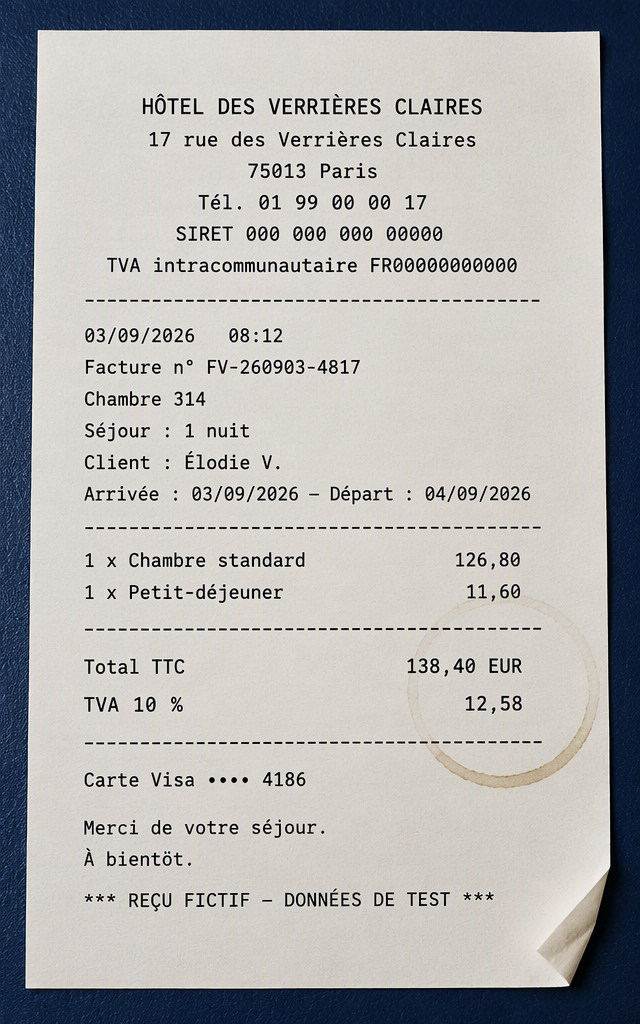
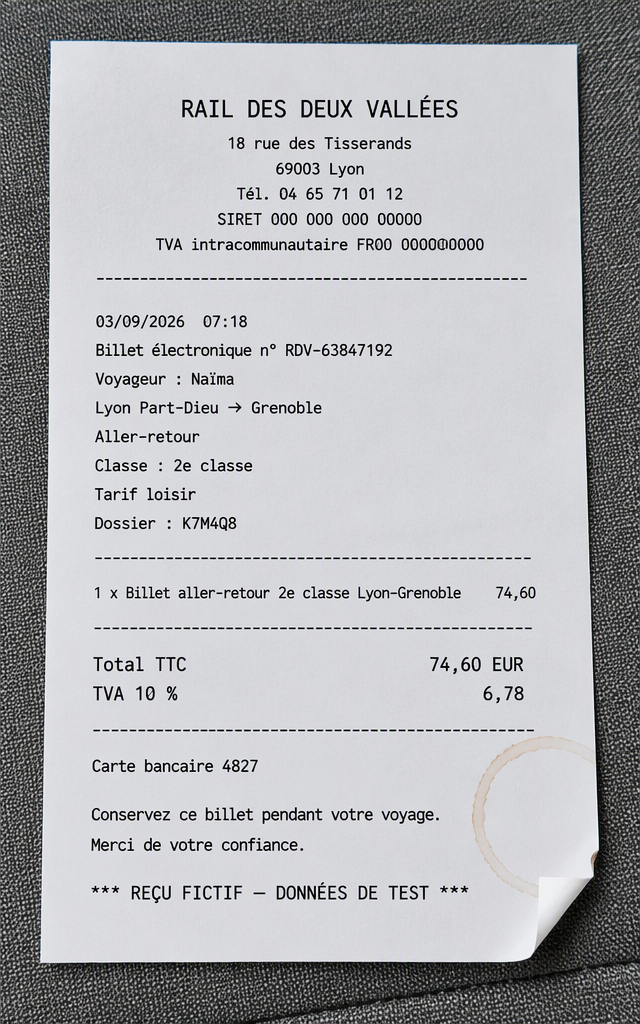
gen_expense_data links its report's receipt photos by an address a browser opens, plans each amount as the receipt's total with tax whether or not the prices include it, and prints a generic card label.

diff --git a/methods/gen_expense_data/README.md b/methods/gen_expense_data/README.md
@@ -29,7 +29,7 @@ Read a brief giving a company's expense policy and the test batch it wants, and 
 
 ## What you get
 
-Run on production on 27 September 2026, from the package's files, in 1 minute 10 seconds. This is what it returned:
+Run on production on 27 September 2026, from the package's files, in 1 minute 4 seconds. This is what it returned:
 
 ### Report 1
 
@@ -37,9 +37,9 @@ Run on production on 27 September 2026, from the package's files, in 1 minute 10
 
 | Field | Value |
 |---|---|
-| `employee_id` | EMP-26041 |
-| `full_name` | Élodie Vasseur |
-| `email` | elodie.vasseur@example.com |
+| `employee_id` | EC-2026-0147 |
+| `full_name` | Naïma Belkacem |
+| `email` | naima.belkacem@example.com |
 | `department` | Business Development |
 | `job_title` | Senior Sales Engineer |
 
@@ -47,25 +47,25 @@ Run on production on 27 September 2026, from the package's files, in 1 minute 10
 
 | `claim_id` | `expense_date` | `merchant` | `category` | `amount` | `business_purpose` | `receipt` | `expected_verdict` |
 |---|---|---|---|---|---|---|---|
-| EXP-20260903-00583 | 2026-09-03 | Hôtel des Verrières Claires, Paris | Hotel | EUR 138.40 | Caldris Processus — Asterion Retrofit project | <a href="output/0-claims-0-receipt.png"><img src="output/0-claims-0-receipt.png" alt="file" width="160"></a> | Compliant |
-| EXP-20260912-66851 | 2026-09-12 | Taxi Rhône Azur, Villeurbanne | Taxi | EUR 46.80 | Valcrête Systèmes Silex-4 commissioning review to Lyon Part-Dieu | <a href="output/0-claims-1-receipt.png"><img src="output/0-claims-1-receipt.png" alt="file" width="160"></a> | Breaks rule 4: Saturday taxi with no manager's prior approval mentioned |
-| EXP-20260924-33105 | 2026-09-24 | Le Jardin des Sondes, Grenoble | Client Meals | EUR 207.60 | Ormevia Énergies — Hélianthe Controls proposal dinner, 3 attendees | <a href="output/0-claims-2-receipt.png"><img src="output/0-claims-2-receipt.png" alt="file" width="160"></a> | Breaks rule 1: client meal EUR 69.20 per person exceeds EUR 60 limit |
+| EXP-20260903-08617 | 2026-09-03 | Rail des Deux Vallées, Lyon | Train travel | EUR 74.60 | Atelier Sereine – Alpilles Heat-Recovery requirements meeting | <a href="output/0-claims-0-receipt.png"><img src="output/0-claims-0-receipt.png" alt="file" width="160"></a> | Compliant |
+| EXP-20260912-39421 | 2026-09-12 | Taxis Quenelle Horizon, Lyon | Taxi | EUR 38.40 | Noroît Processus — Calandre Controls commissioning review transport | <a href="output/0-claims-1-receipt.png"><img src="output/0-claims-1-receipt.png" alt="file" width="160"></a> | Breaks rule 4: Saturday taxi with no manager's prior approval mentioned |
+| EXP-20260922-87717 | 2026-09-22 | La Table du Rivage Ambré, Annecy | Client meal | EUR 268.00 | Noroît Processus — Calandre Controls design review dinner, 4 attendees | <a href="output/0-claims-2-receipt.png"><img src="output/0-claims-2-receipt.png" alt="file" width="160"></a> | Breaks rule 1: client meal EUR 67.00 per person exceeds EUR 60.00 limit |
 
 **`expense_report`**
 
 <div>
 <h4>Expense report</h4>
-<p><strong>Élodie Vasseur</strong>, Senior Sales Engineer, Business Development<br>
-Employee EMP-26041, elodie.vasseur@example.com</p>
+<p><strong>Naïma Belkacem</strong>, Senior Sales Engineer, Business Development<br>
+Employee EC-2026-0147, naima.belkacem@example.com</p>
 <table>
 <thead>
 <tr><th>Claim</th><th>Date</th><th>Merchant</th><th>Category</th><th>Business purpose</th><th>Amount</th><th>Receipt</th></tr>
 </thead>
 <tbody>
-<tr><td>EXP-20260903-00583</td><td>2026-09-03</td><td>Hôtel des Verrières Claires, Paris</td><td>Hotel</td><td>Caldris Processus — Asterion Retrofit project</td><td>EUR 138.40</td><td><img src="output/0-claims-0-receipt.png" alt="Receipt" width="60"></td></tr>
-<tr><td>EXP-20260912-66851</td><td>2026-09-12</td><td>Taxi Rhône Azur, Villeurbanne</td><td>Taxi</td><td>Valcrête Systèmes Silex-4 commissioning review to Lyon Part-Dieu</td><td>EUR 46.80</td><td><img src="output/0-claims-1-receipt.png" alt="Receipt" width="60"></td></tr>
-<tr><td>EXP-20260924-33105</td><td>2026-09-24</td><td>Le Jardin des Sondes, Grenoble</td><td>Client Meals</td><td>Ormevia Énergies — Hélianthe Controls proposal dinner, 3 attendees</td><td>EUR 207.60</td><td><img src="output/0-claims-2-receipt.png" alt="Receipt" width="60"></td></tr>
-<tr><td colspan="5"><strong>Total</strong></td><td><strong>EUR 392.80</strong></td><td></td></tr>
+<tr><td>EXP-20260903-08617</td><td>2026-09-03</td><td>Rail des Deux Vallées, Lyon</td><td>Train travel</td><td>Atelier Sereine – Alpilles Heat-Recovery requirements meeting</td><td>EUR 74.60</td><td><img src="output/0-claims-0-receipt.png" alt="Receipt" width="60"></td></tr>
+<tr><td>EXP-20260912-39421</td><td>2026-09-12</td><td>Taxis Quenelle Horizon, Lyon</td><td>Taxi</td><td>Noroît Processus — Calandre Controls commissioning review transport</td><td>EUR 38.40</td><td><img src="output/0-claims-1-receipt.png" alt="Receipt" width="60"></td></tr>
+<tr><td>EXP-20260922-87717</td><td>2026-09-22</td><td>La Table du Rivage Ambré, Annecy</td><td>Client meal</td><td>Noroît Processus — Calandre Controls design review dinner, 4 attendees</td><td>EUR 268.00</td><td><img src="output/0-claims-2-receipt.png" alt="Receipt" width="60"></td></tr>
+<tr><td colspan="5"><strong>Total</strong></td><td><strong>EUR 381.00</strong></td><td></td></tr>
 </tbody>
 </table>
 </div>
@@ -76,35 +76,35 @@ Employee EMP-26041, elodie.vasseur@example.com</p>
 
 | Field | Value |
 |---|---|
-| `employee_id` | EMP-26087 |
-| `full_name` | Nadir Benali |
-| `email` | nadir.benali@example.com |
-| `department` | Engineering Delivery |
+| `employee_id` | EC-2026-0213 |
+| `full_name` | Lucas Vannier |
+| `email` | lucas.vannier@example.com |
+| `department` | Project Engineering |
 | `job_title` | Project Engineer |
 
 **`claims`**
 
 | `claim_id` | `expense_date` | `merchant` | `category` | `amount` | `business_purpose` | `receipt` | `expected_verdict` |
 |---|---|---|---|---|---|---|---|
-| EXP-20260908-49857 | 2026-09-08 | Comptoir du Maillet Doux, Lyon | Working Meals | EUR 61.20 | Quartz-Ligne design review lunch — 3 employees | <a href="output/1-claims-0-receipt.png"><img src="output/1-claims-0-receipt.png" alt="file" width="160"></a> | Compliant |
-| EXP-20260918-60051 | 2026-09-18 | Billetterie Ferroviaire des Deux Rives, Lyon | Train | EUR 74.90 | Solo travel: Brumelac Industrie, Nacelle-7 sensor-layout workshop | <a href="output/1-claims-1-receipt.png"><img src="output/1-claims-1-receipt.png" alt="file" width="160"></a> | Compliant |
-| EXP-20260929-20862 | 2026-09-29 | Guichet Rail des Balmes, Lyon | Train | EUR 52.70 | work | <a href="output/1-claims-2-receipt.png"><img src="output/1-claims-2-receipt.png" alt="file" width="160"></a> | Breaks rule 6: purpose says only "work" and names no client or project |
+| EXP-20260908-39793 | 2026-09-08 | Comptoir des Canuts Clairs, Lyon | Working meal | EUR 61.80 | Orme-27 office design workshop — 3 people: Lucas Vannier, Camille Roux, Nils Bernard | <a href="output/1-claims-0-receipt.png"><img src="output/1-claims-0-receipt.png" alt="file" width="160"></a> | Compliant |
+| EXP-20260917-67181 | 2026-09-17 | Papeterie du Compas Vert, Lyon | Office supplies | EUR 47.35 | work | <a href="output/1-claims-1-receipt.png"><img src="output/1-claims-1-receipt.png" alt="file" width="160"></a> | Breaks rule 6: purpose says only "work" and names no client or project |
+| EXP-20260929-41860 | 2026-09-29 | Hôtel des Volcans Paisibles, Clermont-Ferrand | Hotel | EUR 96.40 | Mécalume Études — Sillage-4 test-bench project | <a href="output/1-claims-2-receipt.png"><img src="output/1-claims-2-receipt.png" alt="file" width="160"></a> | Compliant |
 
 **`expense_report`**
 
 <div>
 <h4>Expense report</h4>
-<p><strong>Nadir Benali</strong>, Project Engineer, Engineering Delivery<br>
-Employee EMP-26087, nadir.benali@example.com</p>
+<p><strong>Lucas Vannier</strong>, Project Engineer, Project Engineering<br>
+Employee EC-2026-0213, lucas.vannier@example.com</p>
 <table>
 <thead>
 <tr><th>Claim</th><th>Date</th><th>Merchant</th><th>Category</th><th>Business purpose</th><th>Amount</th><th>Receipt</th></tr>
 </thead>
 <tbody>
-<tr><td>EXP-20260908-49857</td><td>2026-09-08</td><td>Comptoir du Maillet Doux, Lyon</td><td>Working Meals</td><td>Quartz-Ligne design review lunch — 3 employees</td><td>EUR 61.20</td><td><img src="output/1-claims-0-receipt.png" alt="Receipt" width="60"></td></tr>
-<tr><td>EXP-20260918-60051</td><td>2026-09-18</td><td>Billetterie Ferroviaire des Deux Rives, Lyon</td><td>Train</td><td>Solo travel: Brumelac Industrie, Nacelle-7 sensor-layout workshop</td><td>EUR 74.90</td><td><img src="output/1-claims-1-receipt.png" alt="Receipt" width="60"></td></tr>
-<tr><td>EXP-20260929-20862</td><td>2026-09-29</td><td>Guichet Rail des Balmes, Lyon</td><td>Train</td><td>work</td><td>EUR 52.70</td><td><img src="output/1-claims-2-receipt.png" alt="Receipt" width="60"></td></tr>
-<tr><td colspan="5"><strong>Total</strong></td><td><strong>EUR 188.80</strong></td><td></td></tr>
+<tr><td>EXP-20260908-39793</td><td>2026-09-08</td><td>Comptoir des Canuts Clairs, Lyon</td><td>Working meal</td><td>Orme-27 office design workshop — 3 people: Lucas Vannier, Camille Roux, Nils Bernard</td><td>EUR 61.80</td><td><img src="output/1-claims-0-receipt.png" alt="Receipt" width="60"></td></tr>
+<tr><td>EXP-20260917-67181</td><td>2026-09-17</td><td>Papeterie du Compas Vert, Lyon</td><td>Office supplies</td><td>work</td><td>EUR 47.35</td><td><img src="output/1-claims-1-receipt.png" alt="Receipt" width="60"></td></tr>
+<tr><td>EXP-20260929-41860</td><td>2026-09-29</td><td>Hôtel des Volcans Paisibles, Clermont-Ferrand</td><td>Hotel</td><td>Mécalume Études — Sillage-4 test-bench project</td><td>EUR 96.40</td><td><img src="output/1-claims-2-receipt.png" alt="Receipt" width="60"></td></tr>
+<tr><td colspan="5"><strong>Total</strong></td><td><strong>EUR 205.55</strong></td><td></td></tr>
 </tbody>
 </table>
 </div>
